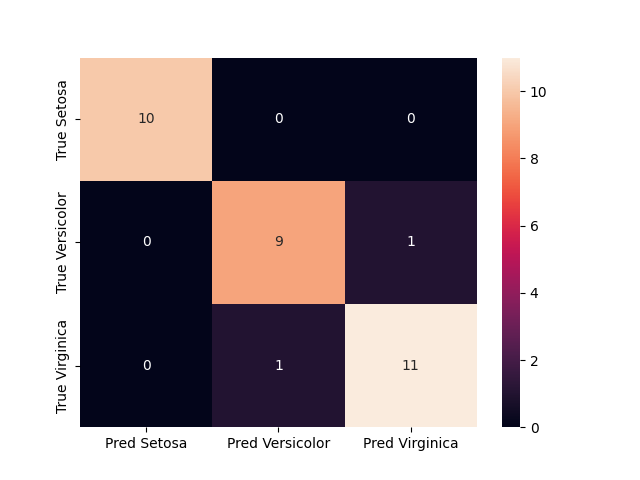
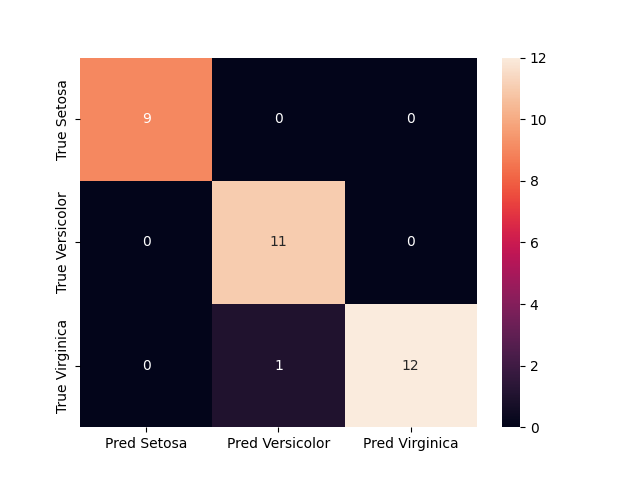
Updated workflow names

diff --git a/Lab1/Task1/iris-batch-inference-pipeline.py b/Lab1/Task1/iris-batch-inference-pipeline.py
@@ -27,7 +27,7 @@ def g():
     fs = project.get_feature_store()
     
     mr = project.get_model_registry()
-    model = mr.get_model("iris_model", version=1)
+    model = mr.get_model("iris_model", version=4)
     model_dir = model.download()
     model = joblib.load(model_dir + "/iris_model.pkl")
     
